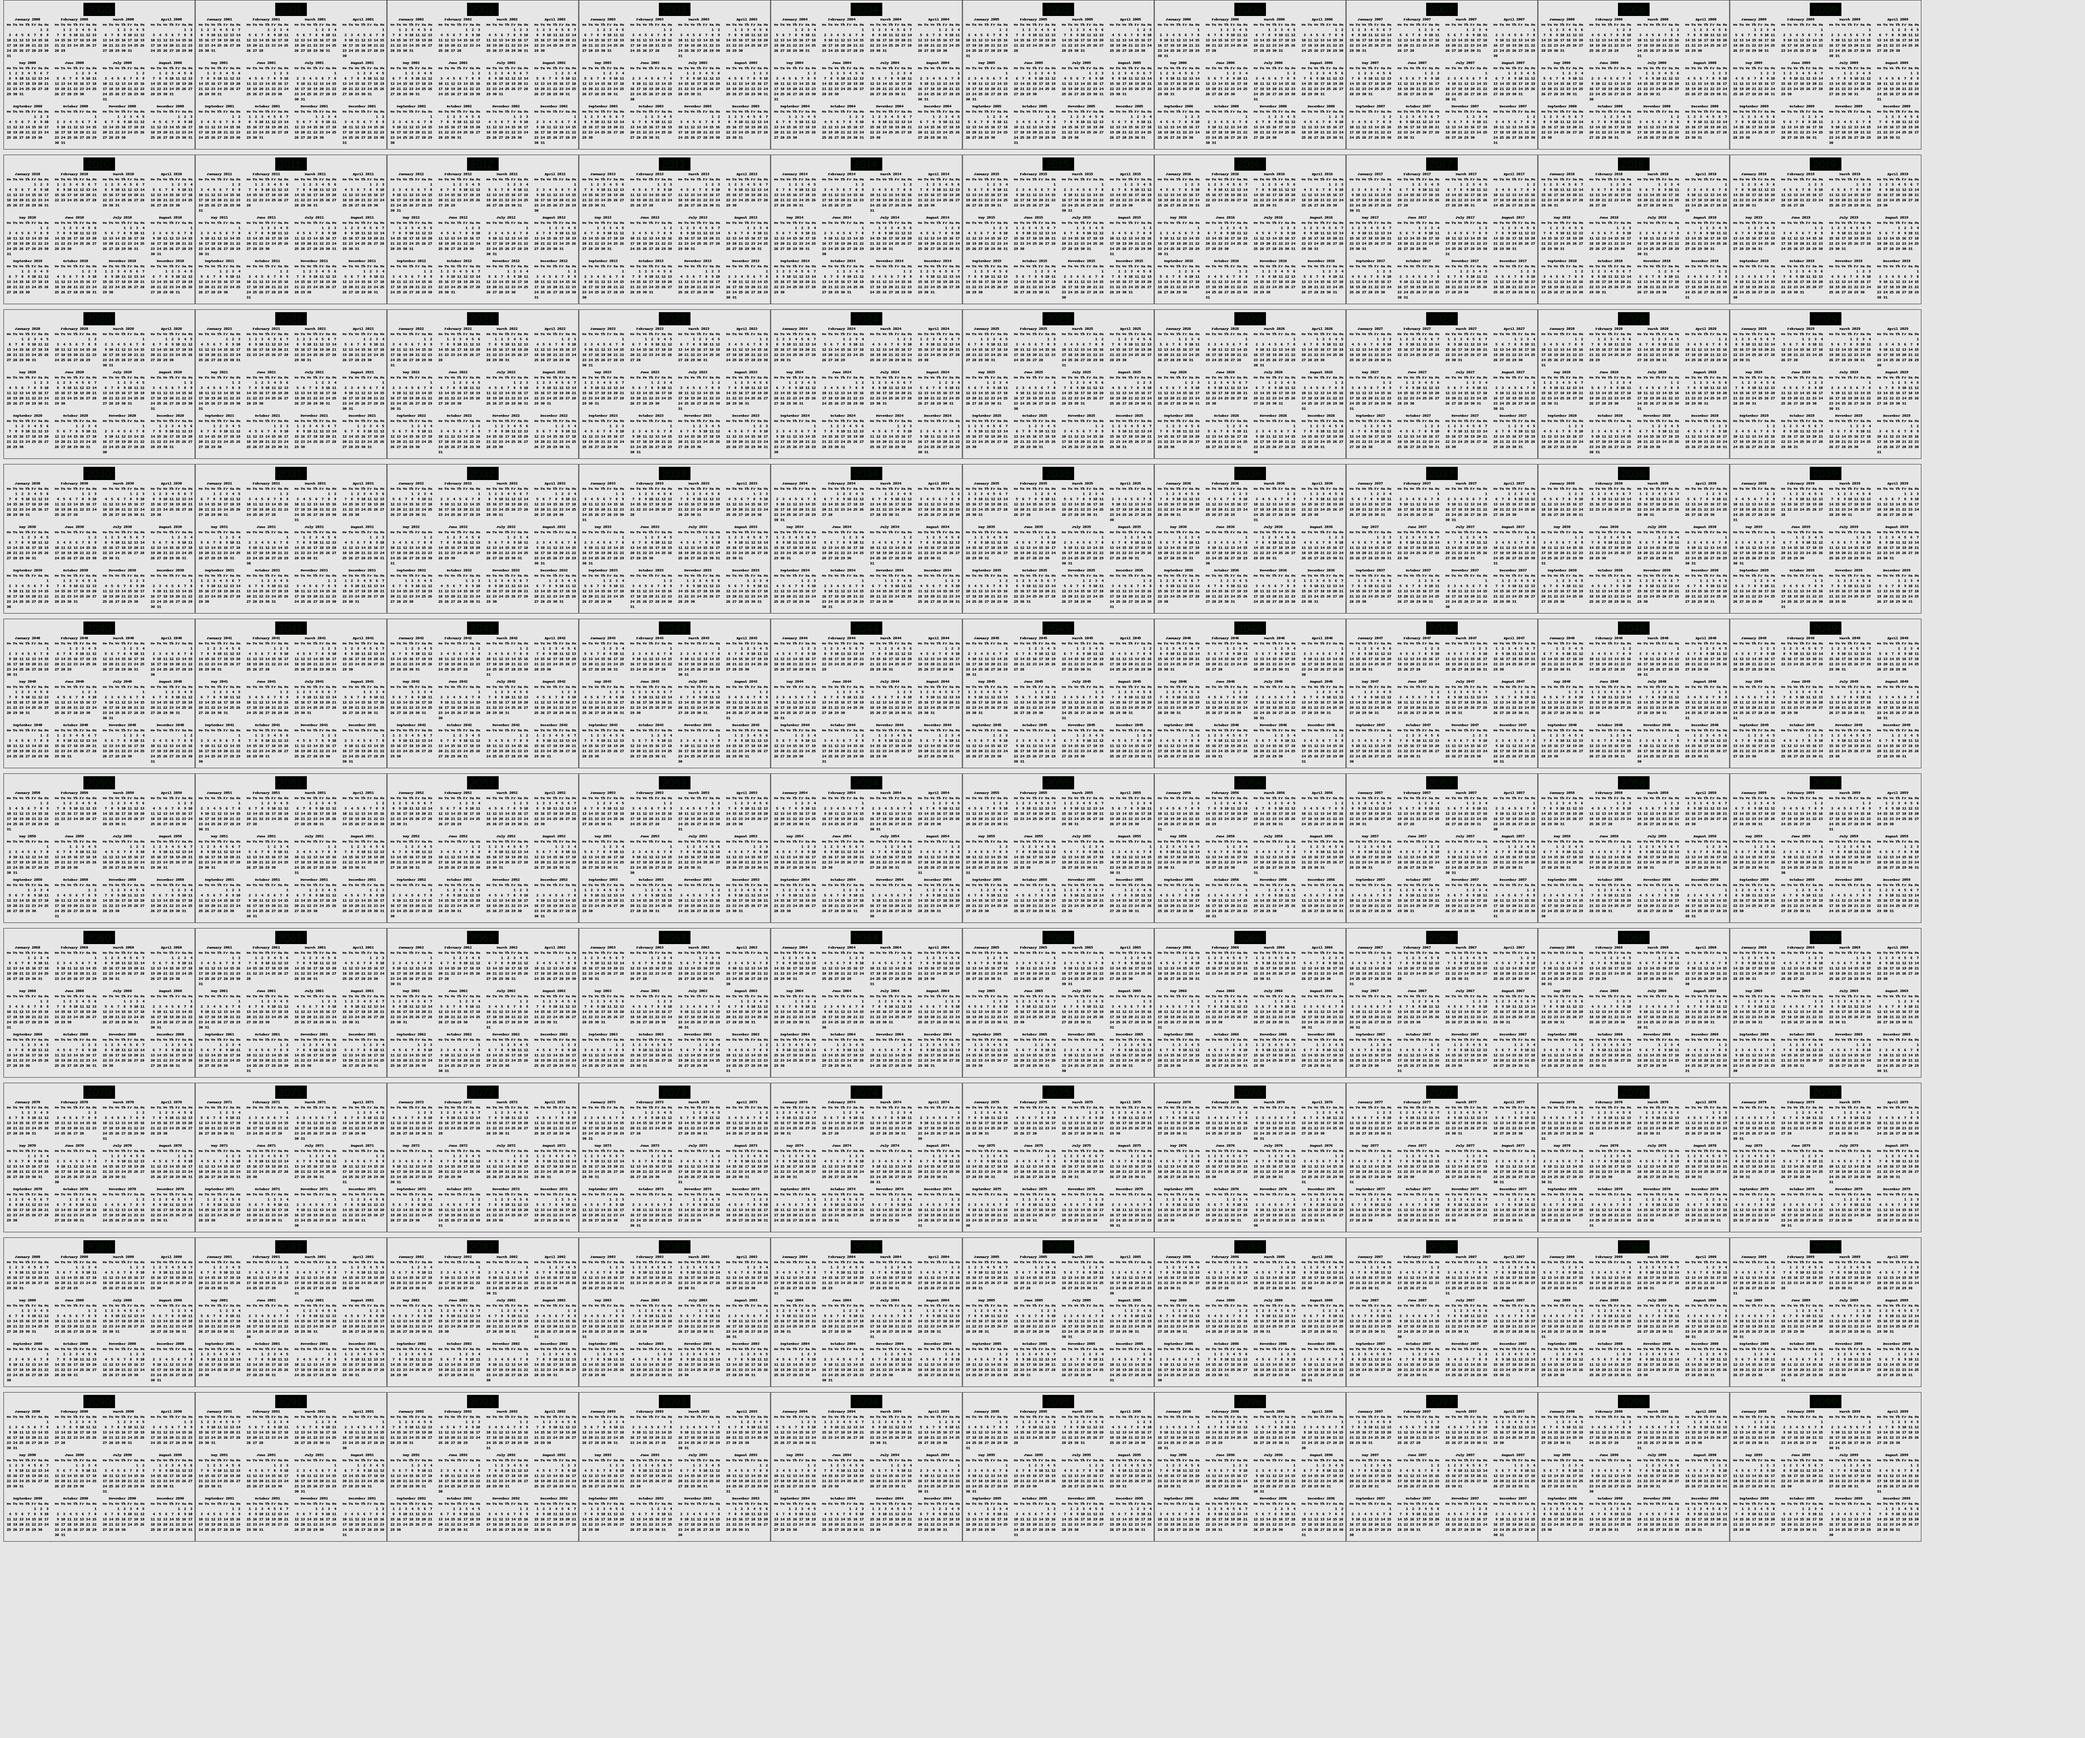
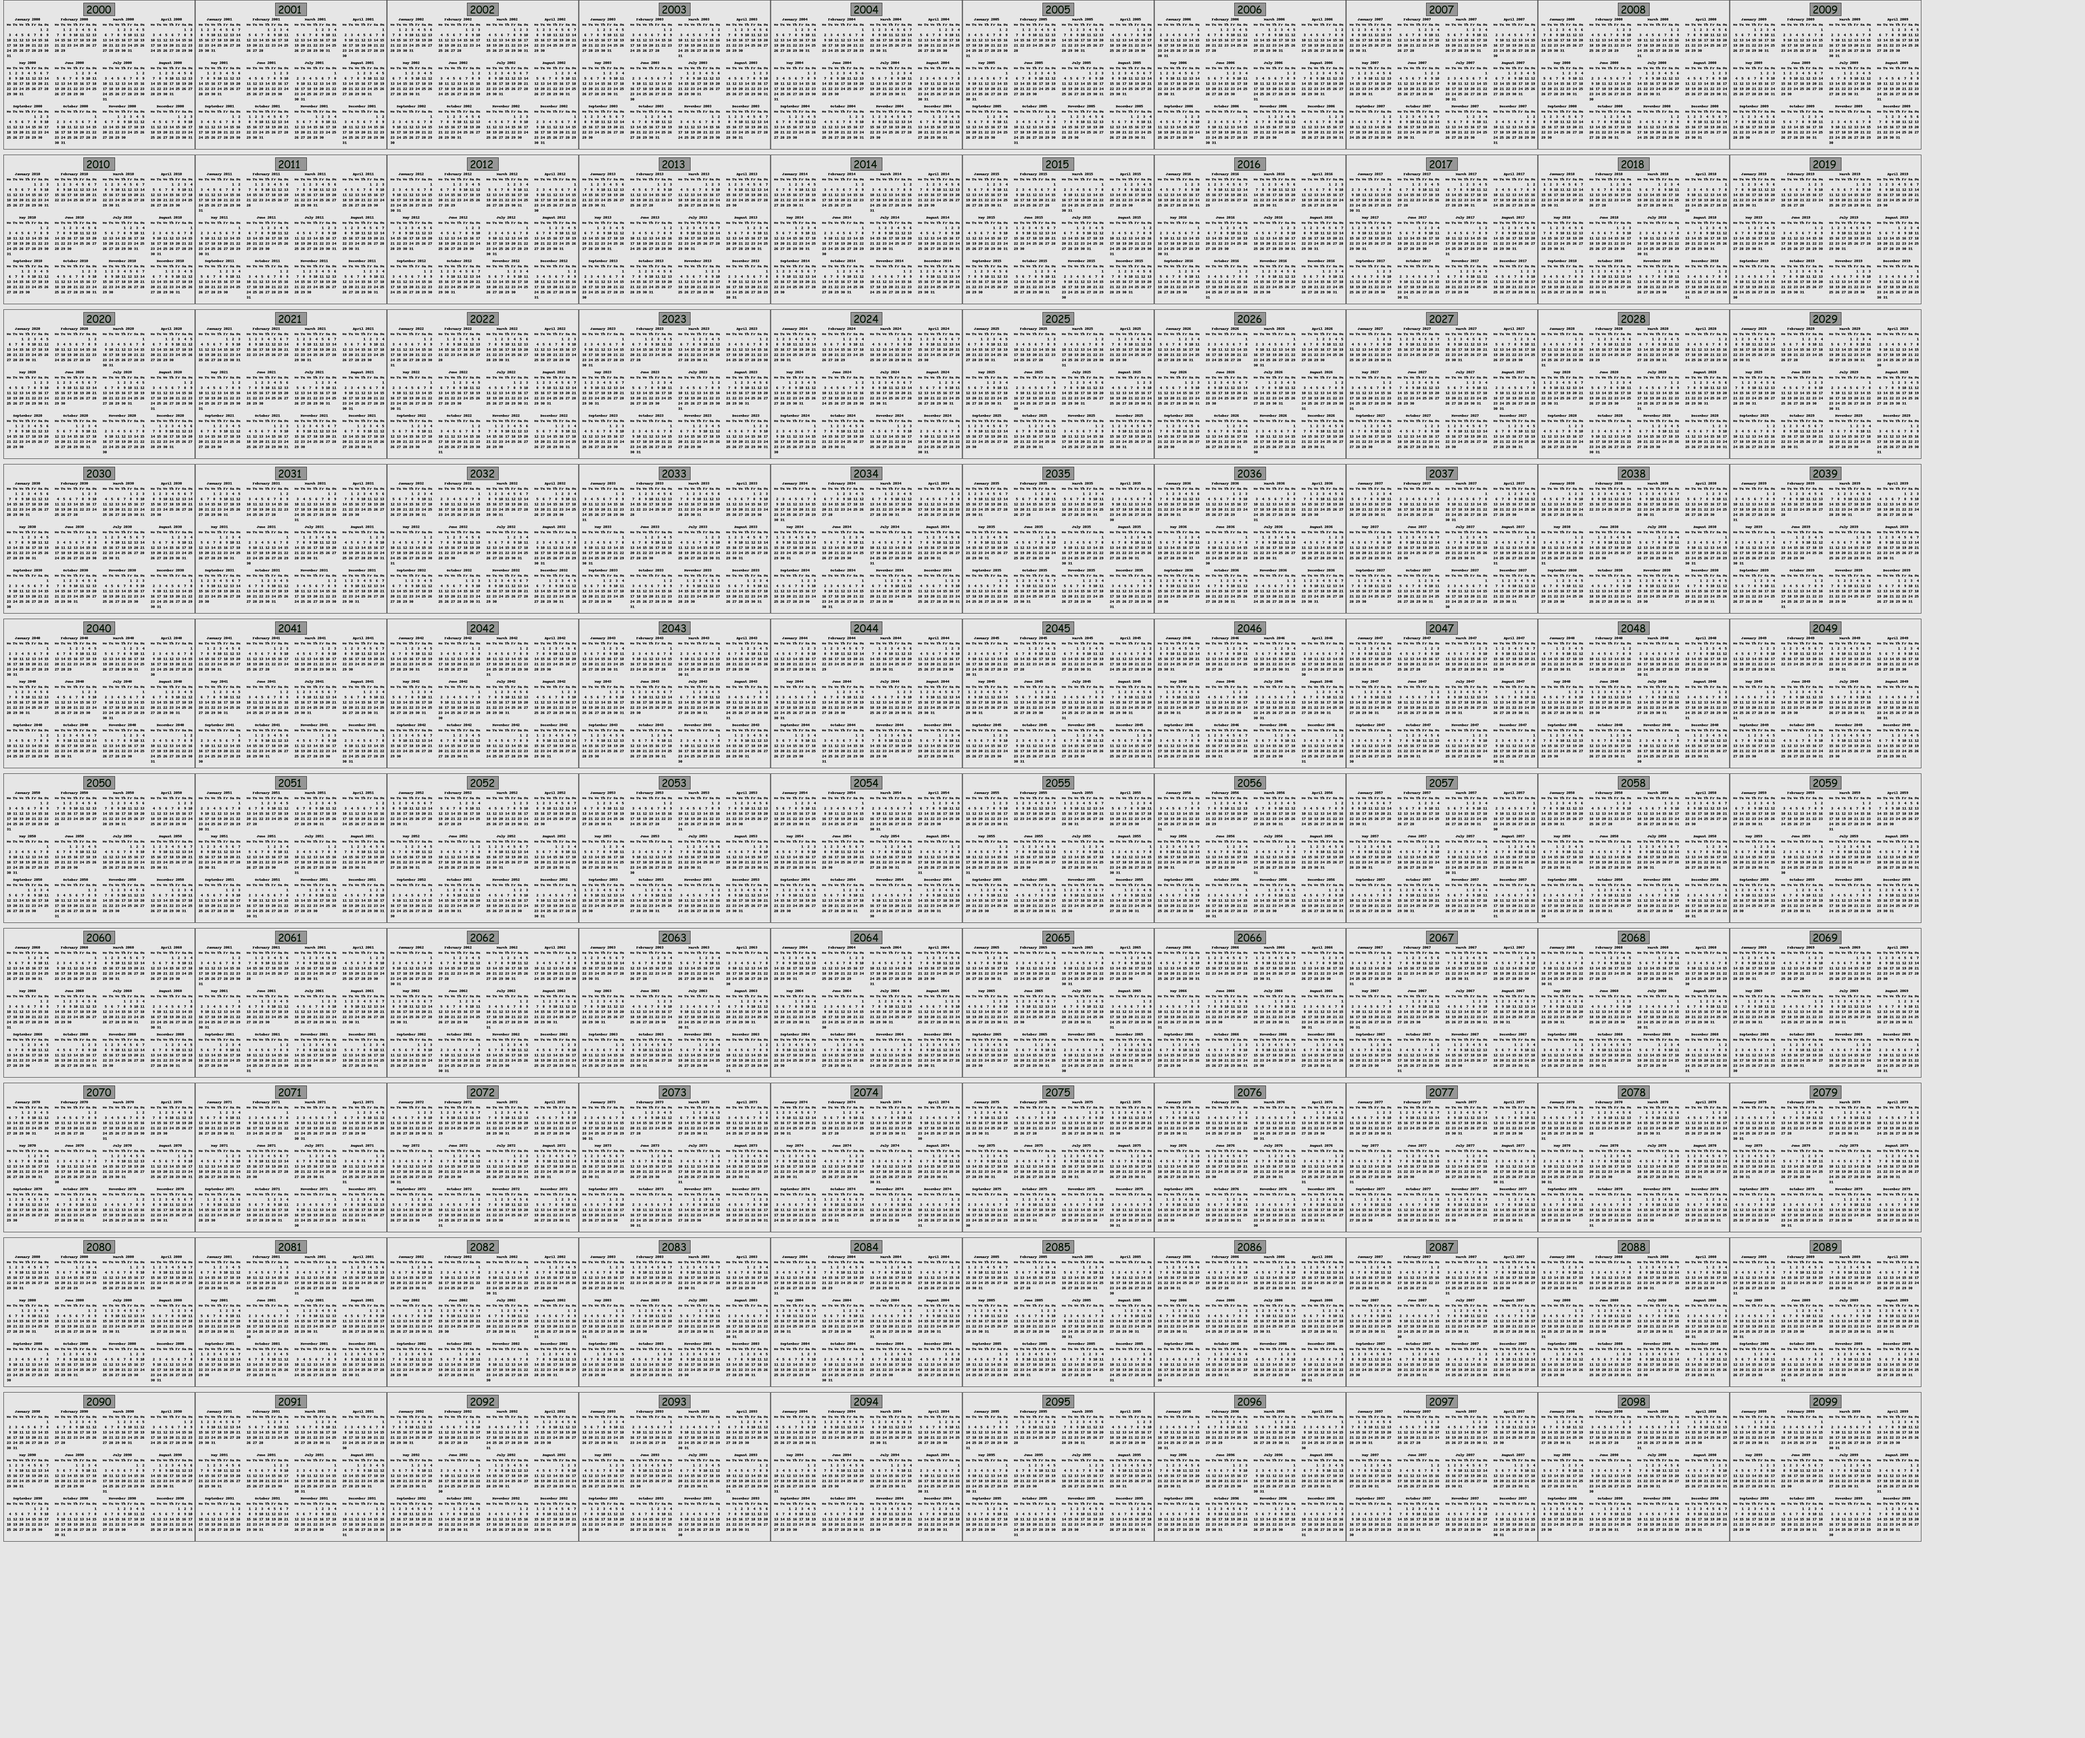
Grey boxes and I need to go sleepe already.

diff --git a/src/calendar_generation.py b/src/calendar_generation.py
@@ -15,6 +15,9 @@ yearcounter = 0
 rightshift = 0
 downshift = 0
 
+year_rect_color = (150, 150, 150)
+year_rect_outline = (0, 0, 0)
+
 for year in range(2000, 2100):
     if yearcounter == 10:
         downshift += 445
@@ -28,7 +31,7 @@ for year in range(2000, 2100):
 
     for month in range(1, 13):
         str1 = plain.formatmonth(year, month)
-        print(str1)
+        # print(str1)
         monthcounter += 1
         d.text((offw + rightshift, offh + downshift), str1, (0, 0, 0))
         offw += 138
@@ -39,7 +42,7 @@ for year in range(2000, 2100):
 
     f = ImageFont.truetype("comic.ttf", 30)
 
-    d.rectangle([(240 + rightshift, 8 + downshift), (330 + rightshift, 45 + downshift)], fill=(0, 0, 0), outline=(0, 0, 0), width=1)
+    d.rectangle([(240 + rightshift, 8 + downshift), (330 + rightshift, 45 + downshift)], fill=year_rect_color, outline=year_rect_outline, width=1)
     d.text((20 + 228 + rightshift, 50 - 45 + downshift), str(year), font=f, fill=(0, 20, 0))
     rightshift += 552
 
